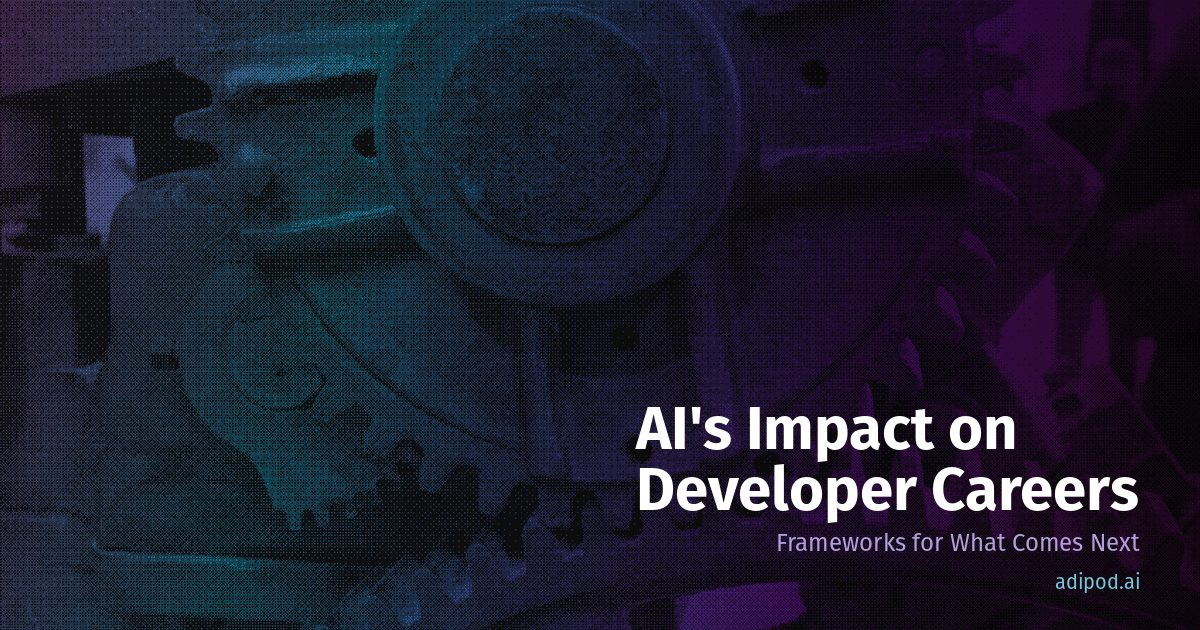
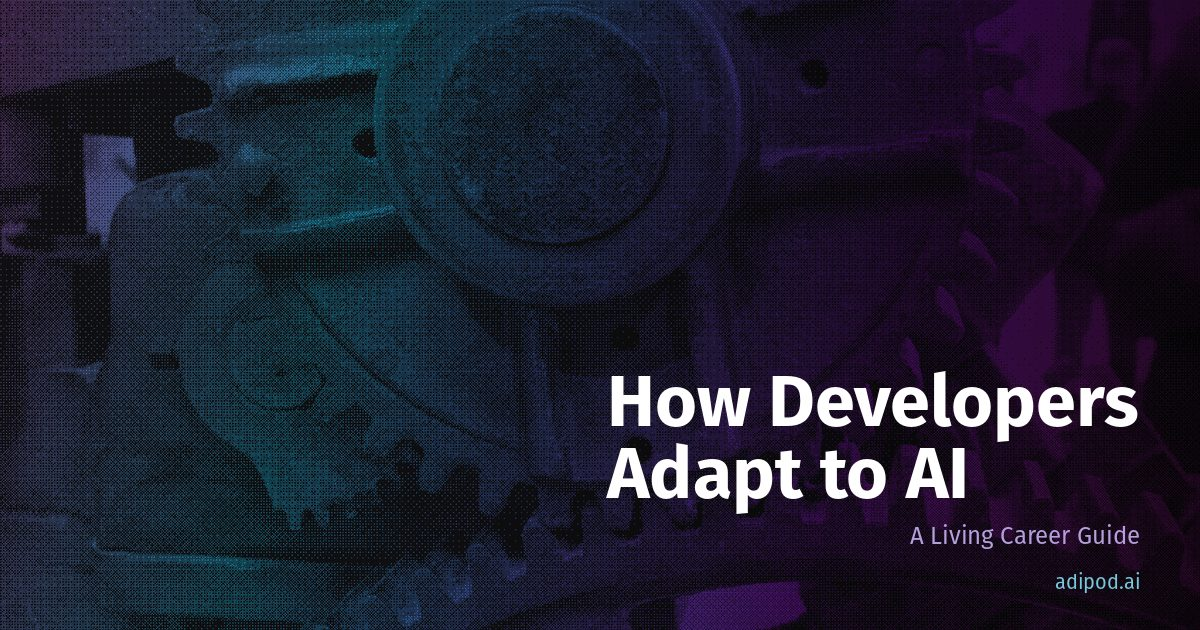
content: add plunging-price-of-ai-tokens post; refresh careers guide
Retitle the careers topic for search (answer-first intro, 9-move action list,
new FAQ), regenerate its OG card, and correct ep-41's Epoch price-drop figures.

Changed region(s): [[0.4933, 0.573, 0.9558, 0.8746]]

diff --git a/site/src/content/topics/ai-developer-careers.md b/site/src/content/topics/ai-developer-careers.md
@@ -1,17 +1,24 @@
 ---
-title: "AI's Impact on Developer Careers: Frameworks for Thinking About What Comes Next"
-description: "Economic models, hiring data, and practitioner perspectives on how AI is reshaping software engineering careers — from workflow automation convexity to the Jevons paradox for code."
+title: "How Software Engineers Should Adapt to AI: A Living Career Guide"
+description: "Will AI replace software engineers, and what should you do about it? A continuously updated guide from three working developers: the economics, the hiring data, the skills gaining and losing value, and concrete career moves, drawn from 22 episodes of the ADI Pod."
 slug: "ai-developer-careers"
-keywords: "AI replace developers, future of software engineering AI, AI developer jobs, AI coding career impact, developer skills AI age, SignalFire engineering hiring, Ramp AI adoption headcount, entry-level engineering jobs AI, AI jobs wipeout, EY CEO survey headcount, Ford grey beard engineers, permanent underclass, Fernando Borretti, AI productivity paycheck, Humlum Vestergaard Denmark, Seattle Tech Week hiring survey, AI hiring interviews 2026, whiteboard interviews return, vibe-coded take-home, tech industry sadness, workism, bullshit jobs, developer autonomy, tech disillusionment, goat farm escape fantasy, agent orchestration middle management, AI middle manager, senior IC delegation, first-time manager training, end of programming, Paul Dix, Bun rewrite Rust, Fable V, refinement durable skill, Meta Project OT, AI-native reorg backfire, cancelled layoffs, Cat Hicks, psychology of software teams, effortful learning, learning opportunities skill, metacognition, developer skill assessment, brains in jars, 10x engineer myth"
+keywords: "how should software engineers adapt to AI, will AI replace software engineers, software engineer career advice AI, how to stay relevant as a developer, AI-proof developer skills, future of software engineering jobs 2026, AI replace developers, future of software engineering AI, AI developer jobs, AI coding career impact, developer skills AI age, SignalFire engineering hiring, Ramp AI adoption headcount, entry-level engineering jobs AI, AI jobs wipeout, EY CEO survey headcount, Ford grey beard engineers, permanent underclass, Fernando Borretti, AI productivity paycheck, Humlum Vestergaard Denmark, Seattle Tech Week hiring survey, AI hiring interviews 2026, whiteboard interviews return, vibe-coded take-home, tech industry sadness, workism, bullshit jobs, developer autonomy, tech disillusionment, goat farm escape fantasy, agent orchestration middle management, AI middle manager, senior IC delegation, first-time manager training, end of programming, Paul Dix, Bun rewrite Rust, Fable V, refinement durable skill, Meta Project OT, AI-native reorg backfire, cancelled layoffs, Cat Hicks, psychology of software teams, effortful learning, learning opportunities skill, metacognition, developer skill assessment, brains in jars, 10x engineer myth, DHH pencils down, hand-written code, price of AI falling, taste and judgment, unverifiable work, theory of constraints"
 lastUpdated: "2026-10-01"
 ogImage: "/og/ai-developer-careers"
 ---
 
-AI is reshaping software engineering careers by automating implementation tasks while increasing demand for domain expertise, spec writing, and agent supervision. The impact is neither the mass replacement some predict nor the harmless productivity boost others claim. This guide presents the economic frameworks, employment data, and practitioner perspectives that help developers navigate what's actually changing — based on nine episodes of coverage on the ADI Pod.
+**Short answer: AI isn't replacing software engineers wholesale, but it is replacing the part of the job that used to define it.** Writing code is becoming cheap, fast, and increasingly done by agents. Deciding what to build, directing and verifying the agents, and owning the result are becoming the job. The hiring data through 2026 shows engineering holding up better than the panic predicted, while the work itself changes underneath it. The developers doing well are the ones moving toward judgment, verification, and domain knowledge on purpose rather than waiting to be pushed.
 
-Every few months, someone publishes a variation of "AI will replace developers in X years" and the discourse follows a predictable arc: panic, backlash, nuance that arrives too late to undo the panic. Repeat.
+The short version of what to do, each expanded [below](#what-to-actually-do):
 
-We've covered this topic across nine episodes now, and the most useful thing we can offer isn't a prediction. Predictions about AI timelines have a half-life shorter than the gap between model releases. Instead, here are the economic frameworks, data points, and practitioner observations that actually help you think about what's happening to software engineering careers — and what to do about it.
+- **Move up from writing code to directing and verifying it.** Refinement, review, and knowing what "done" looks like are the durable skills.
+- **Invest in work with no answer key.** Anything verifiable is getting cheap fast. Taste, judgment, and domain expertise are not.
+- **Learn on purpose.** AI makes you feel more competent than you are. Build in deliberate practice so your skills don't quietly atrophy.
+- **Treat agent supervision as management.** Scoping, delegation, and review are now IC skills, whether or not you wanted to manage.
+- **Don't anchor your career to one framework or tool.** Even Rails' creator stopped writing Ruby.
+- **Pick a seat with autonomy.** Much of the gloom in tech is about control over your work, not AI itself.
+
+This page is a living guide. We update it after every episode of the ADI Pod that touches developer careers (22 so far), so it holds three working developers' running argument rather than a one-time prediction. Predictions about AI timelines have a half-life shorter than the gap between model releases. Frameworks, data, and practitioner observations hold up better, so that's what this guide is built from.
 
 ## Economic Frameworks for AI's Impact on Developer Jobs
 
@@ -130,7 +137,7 @@ The hosts accept the diagnosis and dispute the timeline. Dan dates the disillusi
 
 [Episode 41](/episodes/41-meta-muses-0-day-dhhs-rails-world-keynote-gpt-6-astra-the-llmentalist-effect/) covered [DHH's Rails World 2026 keynote](https://rustify.rs/articles/rails-world-2026-keynote-dhh-hey-rust-ai-agents), which Shimin called a funeral oration for writing code by hand. The creator of Ruby on Rails told a Rails conference that only about 3% of the code he wrote in the last two years was Ruby. 37signals is moving its back ends to Rust and its front ends to native apps wherever it can. His summary: hand-written code is no longer an economically productive enterprise, we had a great run, and it's pencils down. Shimin's reaction was "it feels bad, but I can't say I disagree." The open question is who Rails is for when its creator's own company stops using it. Framework loyalty is a weaker career anchor than it used to be (see [Framework-specific expertise](#framework-specific-expertise) below).
 
-The same episode's Post Processing segment suggests where value goes next. [Epoch AI](https://epoch.ai/publications/the-plunging-price-of-thought) measures the cost of fixed AI performance falling about 13x a year. Shimin's corollary: anything with an objective, verifiable answer that can be RL'd for may stop being scarce within a few years, so the rare and valuable work becomes the unverifiable kind, like taste, judgment, and creativity. Rahul's counterweight is that in the real world intelligence is rarely the bottleneck anyway. The people who changed things usually weren't the smartest in the room. They knew how to play to their strengths and get things done.
+The same episode's Post Processing segment suggests where value goes next. [Epoch AI](https://epoch.ai/publications/the-plunging-price-of-thought) measures the cost of fixed AI performance falling about 13x a year. Shimin's corollary: anything with an objective, verifiable answer that can be RL'd for may stop being scarce within a few years, so the rare and valuable work becomes the unverifiable kind, like taste, judgment, and creativity. Rahul's counterweight is that in the real world intelligence is rarely the bottleneck anyway. The people who changed things usually weren't the smartest in the room. They knew how to play to their strengths and get things done. We worked through the full argument, with a year of earlier episodes behind it, in [Build As If Tokens Were 1000x Cheaper](/blog/plunging-price-of-ai-tokens/).
 
 ## Developer Skills That Are Gaining Value in the AI Age
 
@@ -241,33 +248,55 @@ The hosts' answers to her question back ("what are you actually learning right n
 
 ## What to Actually Do
 
-The frameworks are useful for understanding the landscape. Here's what they suggest for individual career decisions:
+The frameworks and data above point to a fairly consistent set of moves. Roughly in order of how soon they pay off:
 
-**Invest in domain expertise.** The last skill to be automated is understanding what to build and why. Deep knowledge of a specific industry, user base, or problem domain is the highest-value specialization in an AI-augmented world.
+**1. Move from writing code to directing and verifying it.** The Bun rewrite took 11 days to write and two months to refine. The durable work is the refinement: writing clear specs, knowing what verification looks like, and catching where the output went wrong. If you can write a tight, testable spec and check an agent's work against it, you can direct any agent, current or future.
 
-**Learn to write specs, not just code.** If you can write a clear, testable specification, you can direct any agent — current or future. Spec-driven development is the meta-skill of agentic engineering.
+**2. Keep your own judgment in the loop.** AI raises your confidence about 12 percentage points regardless of whether it's right, and it can decouple how competent you feel from how competent you are. Treat AI output as a draft, not an answer. Read the diffs. Don't merge what you can't explain.
 
-**Maintain your independent judgment.** The 12-percentage-point confidence inflation effect is real. The developers who thrive are the ones who treat AI output as a draft, not an answer. Read diffs. Understand changes. Don't merge what you can't explain.
+**3. Learn on purpose.** Fluent output feels like learning, and it usually isn't. Cat Hicks's rhythm is about 45 minutes of agentic coding, then a 10–15 minute exercise where you rebuild the mental model yourself. Quiz yourself, sketch the architecture before implementing it, and periodically build something with the agent closed.
 
-**Build middle-loop skills.** Learn to oversee agents effectively: scoping tasks, designing review workflows, managing context, detecting [dark flow](/glossary/dark-flow/). This skill has no established curriculum, which means early practitioners have a genuine competitive advantage.
+**4. Invest in work with no answer key.** Anything with a verifiable answer can be trained for, and the price of AI performance is falling about 13x a year. Domain expertise, product sense, taste, and judgment about what's worth building stay scarce. You were always hired for those things. Now they're most of what's left.
 
-**Don't over-index on a single tool.** Claude Code, Cursor, Codex — the tools are converging. The competitive moat is in model capabilities, not tool features. Build skills that transfer across agents, not muscle memory for one product.
+**5. Build middle-loop and management skills.** Running agents is first-line management: scoping tasks, choosing the delegation grain, designing review workflows, knowing when to intervene, and spotting [dark flow](/glossary/dark-flow/). Engineering ladders don't measure these yet, so getting good early is a real edge.
 
-**Pay attention to the convexity.** Watch for workflows in your organization that are approaching full automation. The displacement won't be gradual — it'll be sudden. If your role is primarily implementing well-specified features with minimal judgment calls, that workflow is closer to the steep part of the curve than you might think.
+**6. Don't anchor your career to a framework or tool.** DHH now writes about 3% of his code in Ruby. Claude Code, Cursor, and Codex keep converging. Build skills that transfer across languages and agents, not muscle memory for one product.
+
+**7. Get fluent in the economics.** Know what your AI workflows cost, which tasks need a frontier model and which a cheap one handles fine, and how to turn a speedup into an outcome someone can measure. As Rahul put it, capturing the gain is itself the job.
+
+**8. Choose a seat with autonomy.** The missing variable in most tech disillusionment is ownership: customer contact and control over outcomes. AI amplifies that autonomy where it exists. If your current seat doesn't have it, the fix may be a different seat, not a different industry.
+
+**9. Watch for the convexity.** Automation looks harmless while any step still needs a human, then displacement arrives all at once. If your role is mostly implementing well-specified tickets with few judgment calls, that workflow is closer to the steep part of the curve than it looks.
 
 ## Frequently Asked Questions
 
-### Will AI replace software developers?
+### Will AI replace software engineers?
 
-The honest answer: some of what developers currently do will be automated, some won't, and the ratio will shift over time. The Jevons paradox suggests more total software demand. Workflow automation convexity suggests sudden displacement of specific roles. Comparative advantage suggests humans retain value in judgment-heavy, context-rich work. No single framework captures the full picture.
+Not wholesale, at least not on the evidence so far. SignalFire found software engineering was the most resilient job function of 2025, the share of CEOs expecting AI to significantly cut headcount fell from 46% to 20% between January 2025 and May 2026, and Meta's attempt to go AI-native produced more code and more incidents, and then a cancelled layoff round. What AI is replacing is the implementation part of the job. Some roles will be displaced suddenly once their whole workflow can be automated, and entry-level hiring is shrinking as a share of new hires. The engineers most at risk are the ones whose work is mostly turning well-specified tickets into code.
+
+### How should software engineers adapt to AI?
+
+Move toward the work that cheap AI makes more valuable: directing and verifying agents, domain expertise, and judgment about what to build. Keep learning on purpose so your skills don't atrophy behind fluent AI output. Treat agent supervision as a management skill, and avoid tying your career to a single framework or tool. The [What to Actually Do](#what-to-actually-do) section above has the full list.
+
+### What skills will still be valuable when AI is cheap?
+
+Skills without an objective answer key. AI gets cheap fastest on verifiable tasks like math and code, because those can be trained against a checker. Taste, product judgment, domain knowledge, coordination, and accountability resist that. Verification itself also gains value, because someone has to decide whether the cheap output is right. We make the full case in [Build As If Tokens Were 1000x Cheaper](/blog/plunging-price-of-ai-tokens/).
+
+### Is it still worth specializing in a programming language or framework?
+
+Less than it used to be. Models know popular frameworks as well as most specialists, and DHH told Rails World 2026 that only about 3% of the code he wrote in the last two years was Ruby. Deep knowledge of how systems work (performance, data modeling, security, failure modes) still transfers. Knowing one framework's API by heart is losing its premium.
 
 ### Should I learn to code if I'm starting my career now?
 
 Yes, but also learn to write specs, understand systems design, and develop domain expertise. The coding itself may become increasingly automated, but understanding what code does and why is the foundation for every other skill in this guide. Don't learn to code as a career destination — learn to code as a tool for understanding systems.
 
-### How worried should I be about the Block layoffs?
+### Are companies really laying off engineers because of AI?
 
-Block's 45% cut is a real signal, but it's one data point. The stock surge is the more important signal — it tells you that markets reward AI-attributed headcount reduction. Whether the productivity gains are real or performative, expect more companies to follow the pattern. The practical implication: if your role can be described as "translating well-defined requirements into code," invest in the higher-level skills now.
+Some are, and more claim to. Block cut 45% of its workforce citing AI and its stock rose 24%, which tells every CEO that markets reward AI-attributed layoffs. But the follow-through has been mixed. Ford rehired engineers after its AI QA kept failing, Microsoft pulled Claude Code licenses when token costs passed the cost of the engineers, and Meta's AI-native reorg ended with a cancelled second layoff round. Expect more AI-framed layoff announcements regardless of whether the productivity is real. If your role is mostly translating well-defined requirements into code, invest in the higher-level skills now.
+
+### How do I show AI skills in a job interview?
+
+Hiring managers in our Seattle Tech Week survey ranked architecture and system design first, ideally with a story about a decision that burned you, then product sense, then AI fluency. Be ready to explain how you use agents, when you overrode one, and why. A vibe-coded take-home you can't explain is a liability: one founder hired a principal engineer off one and let them go within two months, which is part of why in-person whiteboarding is coming back.
 
 ### What about senior engineers — are they safe?
 

diff --git a/site/src/content/blog/plunging-price-of-ai-tokens.md b/site/src/content/blog/plunging-price-of-ai-tokens.md
@@ -1,0 +1,93 @@
+---
+title: "Build As If Tokens Were 1000x Cheaper: What the Plunging Price of AI Means for Developers"
+description: "Epoch AI finds the cost of a fixed level of AI performance falling about 13x a year, faster than compute, batteries, or electricity ever fell. Here's what three years of that curve, and a year of podcast arguments about it, suggest you should build, learn, and stop worrying about."
+date: "2026-10-02"
+slug: "plunging-price-of-ai-tokens"
+keywords: "AI inference cost falling, cost of AI tokens 2026, LLM price trend, price of intelligence, Epoch AI plunging price of thought, AI cost per task, cheap LLM tokens, Jevons paradox AI, good enough AI models, theory of constraints AI, verifiable vs unverifiable work, taste and judgment developers, AI token budget, inference subsidy, GLM 5.3 Flash price, Fable 5 usage share, build for future models, developer career AI cost"
+episodes: ["5", "13", "14", "15", "24", "26", "27", "28", "29", "30", "33", "38", "39", "41"]
+---
+
+Whatever you're building with AI right now, you're probably pricing it wrong. The tokens will cost about a tenth as much next year, and a hundredth the year after.
+
+That's my compressed read of [The Plunging Price of Thought](https://epoch.ai/publications/the-plunging-price-of-thought), a report by Luke Emberson and David Roodman at Epoch AI that Rahul brought to [Episode 41](/episodes/41-meta-muses-0-day-dhhs-rails-world-keynote-gpt-6-astra-the-llmentalist-effect/). They measured what it actually costs a model to reach a fixed score on five benchmarks covering math, hard science, and games of skill. Since 2023, that cost has fallen about 47% per quarter, or 13x per year.
+
+The comparison chart is the part that sticks. That rate is four times faster than DNA sequencing got cheaper, six times faster than compute, 18 times faster than lithium batteries, and 54 times faster than electricity did over the century to 1973. Their concrete example: in January 2025, o3 scored 75% on GPQA Diamond for about 30 cents a question. Under 18 months later, GPT-5.6 Luna matched it for $0.0004. That's a 725-fold drop. Epoch compares it to the sticker price of a new car falling from $50,000 to $69.
+
+On the show I said we should treat tokens as if they're already a thousand times cheaper than they are, because soon enough they will be. This post is me trying to work out what that means in practice. It draws on a year of arguments with Dan and Rahul, because it turns out we'd been circling this curve long before Epoch gave it a number.
+
+## First, the Caveats Epoch Puts on Its Own Data
+
+The report is admirably honest about its limits, and three of them matter for anyone building on it.
+
+**Benchmarks aren't work.** Labs may be training against these benchmarks ([benchmaxxing](/glossary/benchmaxxed/)), and a benchmark score isn't the same thing as useful output. Epoch's secret-game benchmark, designed to resist that, declines a bit slower than average. Their verdict is "consistent with the benchmaxxing critique being valid but not fatal."
+
+**Nobody lives on the cost frontier.** The 13x figure assumes a user who constantly shops for the cheapest model that can do each task. Real teams pick a model and stay there for months, so they don't capture the full decline. I'd argue this is the most actionable caveat in the report, and I'll come back to it.
+
+**The decline isn't uniform.** Math gets cheaper fastest (50–52% a quarter), game-style puzzles slowest (39–43%). And a level of performance gets cheaper fastest right after it first becomes state of the art, about 66% a quarter, then the decline halves over the next two years. The premium on a brand-new capability is real, and it doesn't last.
+
+There's also a paradox Epoch flags right at the top: the AI boom is pushing *up* the price of everything it consumes (chips, power, even electricians) while the price of what it produces collapses. If you follow our [bubble tracker](/topics/ai-bubble-tracker/), that's the whole story in one sentence.
+
+## Three Things That Happen When Something Gets Cheap
+
+We've seen this movie before, just never at this speed. History gives three reasonably reliable predictions for what happens when a core input collapses in price, and each one has already shown up in our episode archive.
+
+### 1. You use far more of it (Jevons)
+
+The Jevons paradox says that making a resource cheaper to use increases total consumption. Coal-efficient steam engines led to more coal burned, not less. We've reached for it repeatedly on the show. In [Episode 5](/episodes/5-how-anthropic-engineers-use-ai-spec-driven-development-and-llm-psychological-profiles/), Dan flagged the number from Anthropic's internal survey: 27% of Claude-assisted work "consists of tasks that wouldn't have been done otherwise." My analogy at the time was Excel. In theory it made accounting easier, and the number of accountants exploded anyway.
+
+In [Episode 24](/episodes/24-openais-goblin-problem-10-lessons-when-code-is-cheap-ai-addiction-loop/), Dan traced the same curve from punch cards to COBOL to LLMs. Each step made software cheaper to apply, so it got applied to more things. Rahul's caveat from [Episode 26](/episodes/26-llm-neural-anatomy-with-david-noel-ng-forward-deployed-everybody-running-llms-at-home/), via Jasmine Sun, is worth keeping in your pocket: Jevons says you get more of the thing. It doesn't promise that *humans* get more of it.
+
+### 2. Good enough wins most of the calls
+
+When the price of "pretty good" collapses, the market discovers it didn't need "best" for most jobs. My go-to analogy is Xiaomi. Its first phones were "this thing sucks" cheap, then they were good-enough cheap, and now Xiaomi is one of the largest smartphone makers in the world.
+
+The AI version showed up in [Episode 38](/episodes/38-ai-homework-atrophy-github-commits-double-nick-muy-sit-down-ai-sandbagging/), when the [Financial Times reported](https://archive.ph/iaSsq) that Fable 5 was only about 11% of Anthropic's usage two months after launch. Dan's summary: "You don't even necessarily need Opus for most of your stuff. You just need it for like ten percent and a good router." A week later, in [Episode 39](/episodes/39-metas-ai-backfires-glm-5-3-flash-openais-jalapeno-chip-the-end-of-programming/), ZAI shipped [GLM 5.3 Flash](https://z.ai/blog/glm-5.3-flash) at $0.075 per million input tokens, against Sonnet 5's $2. It's not frontier intelligence, but it's good-enough intelligence at basement prices.
+
+Rahul's framing from [Episode 33](/episodes/33-gpt-5-6-sol-meta-s-video-game-gulags-know-your-unknowns-the-permanent-underclass/) is the one I keep coming back to: "If you compare everything we have today to what was the frontier last year, it's a commodity today. And that's just going to keep happening." Or, as the line he was quoting put it, you don't need a Nobel laureate to generate a slide deck for you.
+
+### 3. The constraint moves somewhere else
+
+This is the one that matters for careers. Eliyahu Goldratt's *Theory of Constraints*, which Rahul brought up in [Episode 30](/episodes/30-fable-5-ban-metas-ai-gulag-elias-thorne-loop-engineering/), says every system has exactly one bottleneck, and the whole system's output is set by it. Speed up anything else and nothing changes. Remove the bottleneck and a new one appears somewhere else.
+
+For most of software history, the bottleneck was typing the code. Cheap tokens are removing it, and the system's output is now set by whatever comes next. Rahul's list in that episode: "trust amongst humans, our coordination costs, our judgment." He also made the accountability point, which I think is underrated: "you can't really bring a system to court."
+
+I made a related argument back in [Episode 14](/episodes/14-crabby-rathbun-model-councils-why-you-want-more-tech-debt/), via David Oks: in any workflow, the bottleneck ends up being the most valuable part. If AI becomes cheap and commoditized and humans become the bottleneck, that's where the bargaining power goes.
+
+## So Where Does the Value Go?
+
+My working answer from Episode 41: anything with an objective, verifiable answer is on a short clock. Math and code got cheap first for a reason. Reinforcement learning from verifiable rewards, the technique behind reasoning models since DeepSeek R1, needs a checker that says right or wrong, and math and code come with one. Epoch's data agrees: math is where prices fall fastest.
+
+What stays scarce is the work with no answer key: taste, judgment, creativity, deciding what to build and for whom. Dan put it more concisely in [Episode 28](/episodes/28-claude-opus-4-8-undocumented-claude-code-features-eval-harness-for-ai-skills-pope-on-ai/) when we were discussing Jamie Hurst's "Is This Sustainable?". I asked what isn't perishable. He said taste, I said judgment, and then he said the thing I've repeated to a lot of people since: "You were always hired for those things."
+
+There's a structural reason this holds, too. As I put it in Episode 24, a model by definition produces the most likely code, the median. Your expertise is a different distribution sitting on top of that median. When the median costs almost nothing, the value is in the difference.
+
+Rahul's counterweight deserves equal billing, because it keeps this from becoming a "just be creative" platitude. Intelligence is rarely the bottleneck in the real world. Pick almost anyone who changed things. They usually weren't the smartest person in the room. They knew how to play to their strengths and get things done. A genius in a data center at a penny an hour doesn't change that. If anything, it makes it more true.
+
+## The Counterarguments (Tokens Aren't Free Yet)
+
+I'd be overselling this if I stopped here. The archive has plenty of evidence that the *price you pay* doesn't follow the *cost Epoch measures*, at least not smoothly.
+
+- **The subsidy is ending.** In Episode 30, Dan called it: "the age of not free but heavily subsidized inference is drawing to a close." Around the same time, Fable 5 moved off subscriptions to usage-based pricing ([Episode 29](/episodes/29-fable-5-mythos-5-launch-meta-ai-hack-llms-as-black-boxes-future-of-agents/)).
+- **Frontier work is still expensive.** The Bun rewrite we covered in Episode 39 was 11 days and about 7,000 commits, and it would have cost roughly $165K at API prices. As I said on the show, we don't have a hundred thousand to spend on tokens. StrongDM's dark-factory benchmark of $1,000 in tokens per engineer per day ([Episode 13](/episodes/13-pi-coding-agent-dark-factories-the-furniture-makers-of-carolina/)) works out to a few hundred thousand dollars a year.
+- **The bill gets noticed.** In [Episode 27](/episodes/27-openai-beats-musk-gemini-3-5-flash-and-ai-burnout-mitigation/), Microsoft reportedly cancelled Claude Code licenses for many engineers once the token costs exceeded the cost of the engineers.
+- **Power is a hard floor.** Power keeps showing up in our Two Minutes to Midnight segment, most recently with Oracle invoking force majeure on a data center it can't get enough electricity to.
+
+None of this contradicts Epoch. The cost of a *fixed* level of performance falls. But the frontier keeps moving, and most of us want the frontier. I think the honest synthesis is that last year's frontier gets very cheap, very fast, and this year's frontier stays expensive. So the strategic question becomes which of your workloads actually need this year's frontier. Per the FT data, the market's answer so far is "about 11% of them."
+
+## How to Build As If Tokens Were 1000x Cheaper
+
+Here's what I think the curve suggests, in rough order from "this week" to "this career."
+
+1. **Price features against next year's tokens, not today's.** If a feature is great but costs too much per call, it's worth prototyping now. Thirteen-x a year means it probably pencils out within a product cycle or two. I said a version of this in [Episode 15](/episodes/15-convincing-ai-the-earth-is-flat-inference-at-17k-tokens-sec-and-an-agile-manifesto-for-the-agentic-age/), after seeing a custom chip run a small model at 17,000 tokens a second: if you're building today, build for a world where model throughput isn't the issue.
+
+2. **Get on the cost frontier on purpose.** Epoch's biggest caveat is your biggest opportunity: nobody switches models often enough to capture the full decline. Route by task. Re-run your evals every time a cheaper model ships. Rahul's rule from Episode 29 is a good default: try the job on the cheapest model first and only climb when it fails.
+
+3. **Expect your scaffolding to expire.** Cheap, smarter models make yesterday's careful workarounds a liability. In Episode 13 I called this the bitter lesson of AI tooling: once the agent is smart enough, the extra scaffolding gets in its way. The practical version from Episode 41 is to prune your skills and CLAUDE.md files on a schedule (I wrote more about that in [CLAUDE.md best practices](/blog/claude-md-best-practices/)).
+
+4. **Take on the right kind of debt.** Rahul's Episode 14 point: if inference gets cheaper every quarter, AI-fixable tech debt gets cheaper to pay down later. He called it "the United States approach to debt applied to software." Dan's caveat is the important half: only take on debt that's cheap to reverse. A messy function is fine to leave for later. A messy database migration is not.
+
+5. **Invest in the skills with no answer key.** Verification, direction, taste, and judgment about what's worth building are the new constraint. If your job is mostly turning well-specified tickets into code, I'd treat that as the part of the work on the steep side of the price curve. For the longer version of this argument, see our living guide on [how software engineers should adapt to AI](/topics/ai-developer-careers/).
+
+The hosts disagree about how fast this all happens, and I'm still torn myself. But I think the direction is about as settled as anything in this field gets. A resource that gets 13 times cheaper every year doesn't stay a line item for long. It becomes plumbing. The developers who do well will be the ones who stopped asking what the tokens cost and started asking what's still worth a human's attention.
+
+Gen Z, it turns out, was right to forget the math and focus on the rizz.

diff --git a/episodes/ep-41.md b/episodes/ep-41.md
@@ -22,7 +22,7 @@ Shimin, Dan, and Rahul are back after two weeks off, and there's a lot to catch 
 - **DHH said the quiet part at Rails World.** The creator of Rails told a Rails conference that only about 3% of the code he wrote in the last two years was Ruby. 37signals is moving back ends to Rust and front ends to native apps wherever it can, and hand-written code "is no longer an economically productive enterprise." Shimin doesn't disagree with him on this one. The open question is who Rails is for once its own creator's company stops using it.
 - **Developers were the canary, and the gas is reaching everyone else.** In the CNN story, a chatbot's misidentification became a distributed intelligence report and nearly a boarding, inside an active war. Rahul's fix is to cite your sources, read them, and use source-grounded tools for anything critical. Shimin's point is that every industry now faces the hallucination and human-in-the-loop questions developers have been working through for two years, and each will answer them differently.
 - **GPT-6 Astra is great to watch and harder to monitor.** It's the best computer-use and visual model the hosts have seen. Shimin's new Shakespeare benchmark (an SVG animation of Hamlet's soliloquy with Web Audio) shows a big jump over the previous GPT generation. The worry is the looped transformer, which can run a sequence through the same blocks several times before emitting a token. That puts reasoning outside chain of thought, where monitors can't read it. It's a close cousin of the layer-duplication trick from [Episode 26](/episodes/26-llm-neural-anatomy-with-david-noel-ng-forward-deployed-everybody-running-llms-at-home/). OpenAI says it capped the loops for monitorability. Neel Nanda worries about a race to the bottom between labs that won't.
-- **Build as if tokens were 1000x cheaper.** Epoch AI finds the cost of fixed performance falling about 47% a quarter, roughly 13x a year. That's faster than DNA sequencing, Moore's law, lithium batteries, or electricity. The cost of an o3-level GPQA Diamond answer fell by orders of magnitude in under 18 months, and new models shed about two-thirds of their launch premium within months. Math costs fall fastest, unstructured puzzles slowest. Shimin's corollary: anything with a verifiable answer that can be RL'd may stop being scarce within a few years, and value moves to unverifiable work like taste, judgment, and creativity. Rahul's caveat is that in the real world intelligence is rarely the bottleneck.
+- **Build as if tokens were 1000x cheaper.** Epoch AI finds the cost of fixed performance falling about 47% a quarter, roughly 13x a year. That's faster than DNA sequencing, Moore's law, lithium batteries, or electricity. An o3-level GPQA Diamond answer went from 30 cents to $0.0004 in under 18 months, a 725-fold drop. Costs fall fastest right after a level of performance first becomes state of the art: about 66% a quarter at first. Math costs fall fastest, unstructured puzzles slowest. Shimin's corollary: anything with a verifiable answer that can be RL'd may stop being scarce within a few years, and value moves to unverifiable work like taste, judgment, and creativity. Rahul's caveat is that in the real world intelligence is rarely the bottleneck.
 - **Tell agents the why, then refactor your old skills.** Sean Goedecke argues current models need your priorities and long-term goals more than step-by-step instructions. Developers are doing the team-building side of management now: shared vocabulary, priorities, coding style. Because models keep improving, the over-specified instructions you wrote into skills and CLAUDE.md files six months ago can start to hurt, so prune them. Shimin's argument for keeping skills under human control is that skills, like software, are calcified decisions, and an agent that edits them can quietly overwrite trade-offs you made on purpose. Dan's "Friday summary" skill is the example: a template plus "always add, don't subtract," turning daily notes into a weekly status report for his boss.
 - **The LLMentalist effect works even if the model reasons.** Baldur Bjarnason's 2023 essay maps chatbots onto the psychic's con. The audience selects itself (skeptics don't use chatbots), hype does the priming, and your prompt picks you out as the mark. Barnum statements, a "would you like me to…?" validation loop, and RLHF finish the job, since RLHF is humans picking the answers that feel most right to them. Dan doesn't buy the essay's "no intelligence" premise, but its persuasion mechanics still apply. Shimin played an AI cold-read game on vacation, and it guessed Disco Elysium. He remembers that hit and none of the misses. You have to hold two ideas at once: these are matrix multiplications, and they are trained to act human, so expect human-like effects.
 - **NVIDIA lends, Oracle stalls, AMD buys a name, and the clock holds at 4:15.** The Economist calls NVIDIA the central bank of AI. It made about 90 startup investments last year and has agreed to about 60 more this year, and it narrows the gap between neoclouds and hyperscalers on borrowing costs (CoreWeave borrowed at almost double Alphabet's 5.7%). Dan adds the part the article skips: networking, where NVIDIA still has almost no competition. Oracle invoked force majeure on Project Jupiter over power delays, and AMD paid $8.2B, about 36x what World Labs raised, for a company with no reported revenue. Oracle is the only news pushing the clock forward, so it stays at 4:15 until the IPO numbers land.
